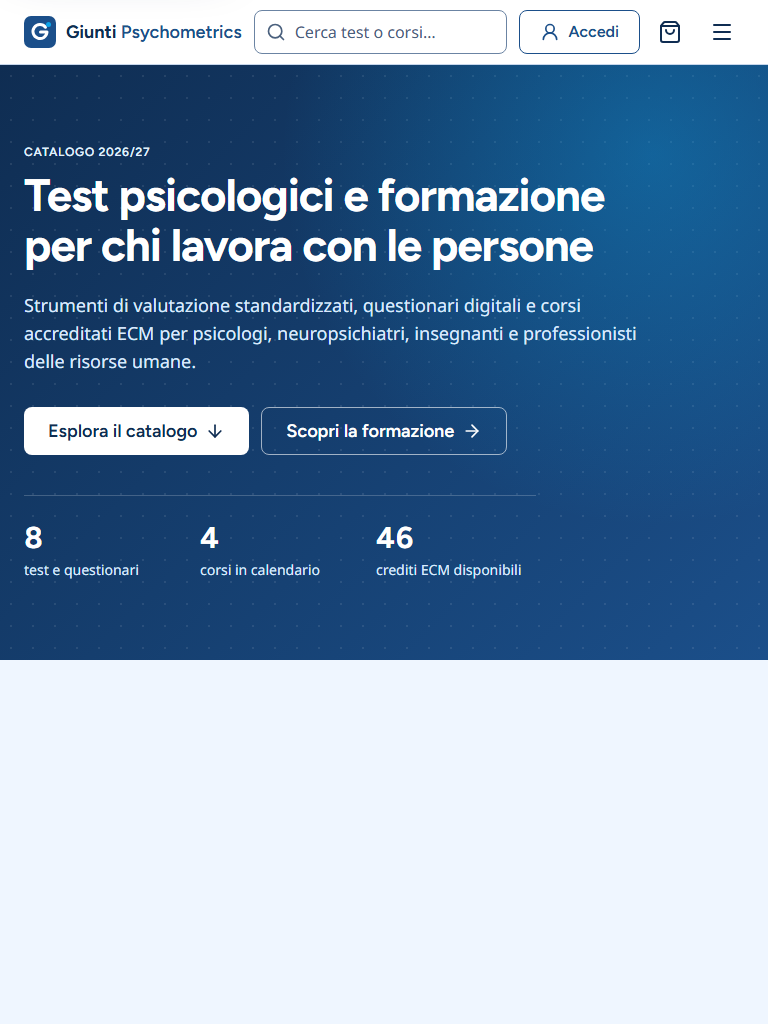
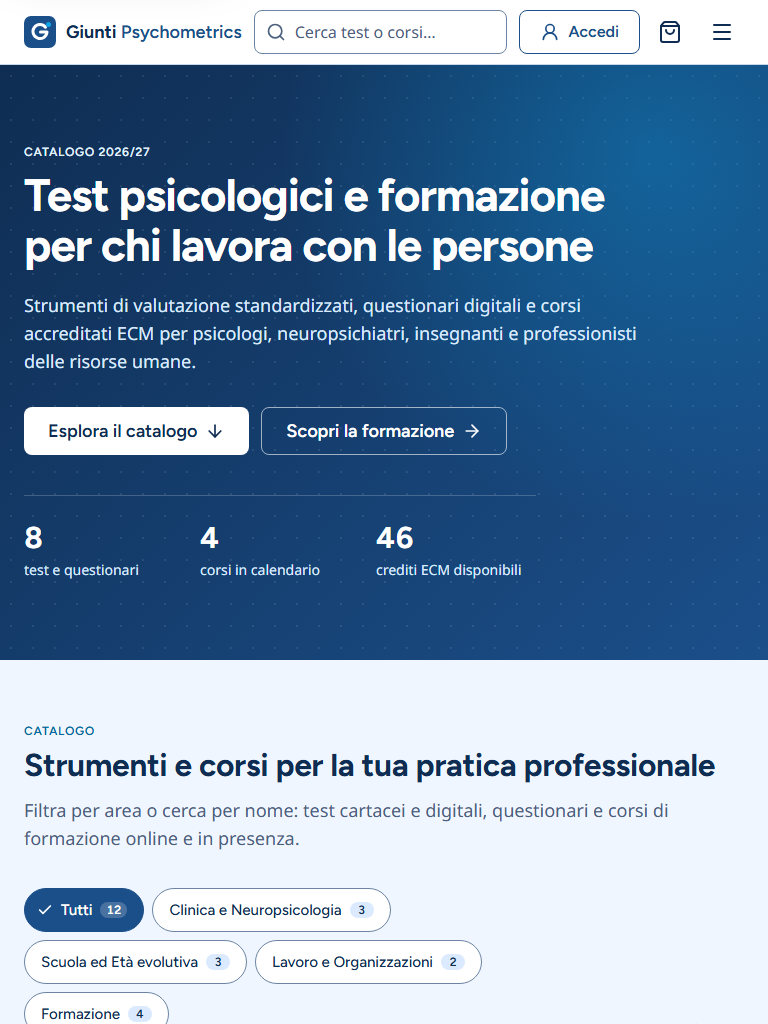
test(version-b): capture catalogue screenshots and compare them with version A

Changed region(s): [[0.0312, 0.6875, 0.9375, 1.0], [0.3438, 0.9062, 0.5625, 0.9688]]

diff --git a/version-b/e2e/screenshots.spec.ts b/version-b/e2e/screenshots.spec.ts
@@ -51,3 +51,85 @@ test('screenshot: keyboard focus states (1280)', async ({ page }) => {
   for (let i = 0; i < 6; i += 1) await page.keyboard.press('Tab'); // → hero secondary CTA
   await page.screenshot({ path: join(OUT, '05-focus-hero-cta-1280.png') });
 });
+
+test('screenshot: search with text (768)', async ({ page }) => {
+  await page.setViewportSize(VIEWPORTS.tablet);
+  await page.goto('/');
+  await page.getByRole('searchbox', { name: 'Cerca nel catalogo' }).fill('attentio');
+  await page.screenshot({
+    path: join(OUT, '06-search-filled-768.png'),
+    clip: { x: 0, y: 0, width: 768, height: 160 },
+  });
+});
+
+// ── Catalogue ────────────────────────────────────────────────────────────────
+
+async function gotoCatalog(page: import('@playwright/test').Page) {
+  await page.goto('/');
+  await page.evaluate(() => document.fonts.ready);
+  await page.locator('#catalogo').scrollIntoViewIfNeeded();
+  await page.evaluate(() => {
+    const el = document.getElementById('catalogo');
+    if (el)
+      window.scrollTo({
+        top: el.getBoundingClientRect().top + window.scrollY - 80,
+        behavior: 'instant',
+      });
+  });
+  // Wait for every image in view to finish loading.
+  await page.waitForFunction(() =>
+    Array.from(document.querySelectorAll('#catalogo img'))
+      .filter((img) => img.getBoundingClientRect().top < window.innerHeight)
+      .every((img) => (img as HTMLImageElement).complete),
+  );
+}
+
+for (const [name, viewport] of Object.entries(VIEWPORTS)) {
+  test(`screenshot: catalogue at ${viewport.width}`, async ({ page }) => {
+    await page.setViewportSize({ width: viewport.width, height: 1400 });
+    await gotoCatalog(page);
+    await page.screenshot({ path: join(OUT, `10-catalog-${viewport.width}-${name}.png`) });
+  });
+}
+
+test('screenshot: card hover and keyboard focus (1280)', async ({ page }) => {
+  await page.setViewportSize({ width: 1280, height: 1400 });
+  await gotoCatalog(page);
+  await page.getByRole('article').nth(1).hover();
+  await page.getByRole('button', { name: /^Scopri di più: NEURA-Q/ }).focus();
+  await page.waitForTimeout(300);
+  await page.screenshot({ path: join(OUT, '11-card-hover-focus-1280.png') });
+});
+
+test('screenshot: filtered + empty state (1280)', async ({ page }) => {
+  await page.setViewportSize({ width: 1280, height: 900 });
+  await gotoCatalog(page);
+  await page.getByRole('searchbox', { name: 'Cerca nel catalogo' }).fill('zzz');
+  await page
+    .getByRole('group', { name: 'Filtra per categoria' })
+    .getByRole('button', { name: /^Formazione/ })
+    .click();
+  await page.mouse.move(0, 0); // no hover on the pill
+  await page.waitForTimeout(300); // let the 150ms colour transition finish
+  // The shorter page clamps the scroll position: re-frame the section.
+  await page.evaluate(() => {
+    const el = document.getElementById('catalogo');
+    if (el)
+      window.scrollTo({
+        top: el.getBoundingClientRect().top + window.scrollY - 80,
+        behavior: 'instant',
+      });
+  });
+  await page.screenshot({ path: join(OUT, '12-empty-state-1280.png') });
+});
+
+test('screenshot: pills scrolled to the active one (375)', async ({ page }) => {
+  await page.setViewportSize(VIEWPORTS.mobile);
+  await page.goto('/?categoria=formazione');
+  await page.evaluate(() => document.fonts.ready);
+  await page.locator('#catalogo').scrollIntoViewIfNeeded();
+  await page.waitForTimeout(400);
+  await page
+    .getByRole('group', { name: 'Filtra per categoria' })
+    .screenshot({ path: join(OUT, '14-pills-375.png') });
+});

diff --git a/version-b/playwright.config.ts b/version-b/playwright.config.ts
@@ -10,7 +10,10 @@ const externalBaseURL = process.env.E2E_BASE_URL;
 
 export default defineConfig({
   testDir: './e2e',
-  fullyParallel: true,
+  // `php artisan serve` handles one request at a time: parallel workers slow every page down and make
+  // captures timing-dependent (e.g. fonts arriving late). Screenshots are taken one after another.
+  fullyParallel: false,
+  workers: 1,
   forbidOnly: Boolean(process.env.CI),
   retries: 0,
   reporter: [['list']],

diff --git a/docs/ASSUMPTIONS.md b/docs/ASSUMPTIONS.md
@@ -70,3 +70,6 @@ Supuestos de version-b, numerados aparte (B1…). Plan: [`PLAN-B.md`](PLAN-B.md)
 | B21 | Styleguide | `/_styleguide` (tipografía, colores y botones en todos sus estados) solo se registra con `APP_ENV=local`, lleva `noindex` y su CSS va en una hoja aparte (`css/styleguide.css`) que la home nunca carga. Una prueba garantiza que fuera de local da 404. | Herramienta de verificación contra DESIGN-SPEC, sin coste para el sitio público. |
 | B22 | Markup del header frente a HANDOFF §4.1 | Tres ajustes, sin cambiar roles, nombres accesibles, ids ni `data-*`: (1) el logo va dentro de `div.site-header__brand`, que fija la altura de la fila (64 / 72 px), como el contenedor `h-16 lg:h-18` de A; (2) el `<form>` del buscador no tiene `action`: igual que en A, Enter no envía nada (el JS lo convierte en scroll a `#catalogo`); (3) el menú móvil renderiza los dos iconos (Menu y X) y el CSS muestra uno u otro según `aria-expanded`, para que el JS nunca escriba SVG. Los iconos lucide llevan `width`/`height` en px en lugar de la clase `size-*` de A (mismo tamaño renderizado). | Paridad visual sin lógica de presentación en JS. |
 | B23 | Datos compartidos en las vistas | El view composer (`AppComposer`) se aplica a layouts **y** páginas (`layouts.*`, `pages.*`, `dev.*`, `errors.*`): con `@extends`, Blade renderiza las secciones de la página antes que el layout, así que los partials incluidos desde la página necesitan esos datos por sí mismos. | Detectado por las pruebas (500 «Undefined variable $sectionIds»). |
+| B24 | jQuery 4 | jQuery 4 eliminó utilidades antiguas (`$.trim`, `$.isArray`, `$.type`…): se usan los equivalentes nativos (`String.prototype.trim`). `main.js` arranca cada módulo dentro de `try/catch`, para que un error en uno no deje sin comportamiento al resto (detectado: `$.trim` paró el catálogo). ESLint 9 (`npm run lint`) revisa `resources/js`; `npm audit` señala `minimatch` dentro del propio ESLint (solo herramienta de desarrollo, nunca llega al build; forzar la versión corregida rompe ESLint 9, así que se acepta). | Robustez y lint del JS. |
+| B25 | Imágenes de las cards frente a A | A sirve las fotos recomprimidas en AVIF por el optimizador de Next; B las pide a la CDN de Unsplash con `auto=format`. La maquetación es idéntica (mismas cajas, `sizes` y anchos elegidos), pero los píxeles **dentro** de las fotos difieren levemente por la compresión: es la única diferencia de las capturas del catálogo (0,03–0,11 %). | Sin optimizador de imágenes en B (B14). |
+| B26 | Pill activa tras cargar las fuentes | Al aplicar `?categoria=` el JS desplaza la fila de pills hasta la activa al cargar y **otra vez cuando terminan de cargar las fuentes** (`document.fonts.ready`): con fuentes lentas la primera colocación usaba las métricas del fallback y la pill quedaba unos píxeles desplazada (visto en las capturas con el servidor saturado). Las capturas de B se toman con un solo worker (`php artisan serve` atiende una petición cada vez). | Paridad estable en conexiones lentas. |

diff --git a/version-b/README.md b/version-b/README.md
@@ -50,4 +50,6 @@ php artisan serve               # http://127.0.0.1:8000
 | `npm run compare:screenshots` | % de píxeles distintos entre cada captura de B y su par de A; imágenes de diferencias en `docs/screenshots/diff/` |
 | `/_styleguide` | Solo con `APP_ENV=local`: tipografía, colores y botones en todos sus estados, para comparar con DESIGN-SPEC |
 | `php artisan test` / `composer test` | PHPUnit |
+| `npm test` | Pruebas de la lógica JS (`node:test` sobre `resources/js/lib`, mismos casos que los tests de A) |
+| `npm run lint` | ESLint de `resources/js` y del tooling |
 | `composer lint` | Pint en modo comprobación |
